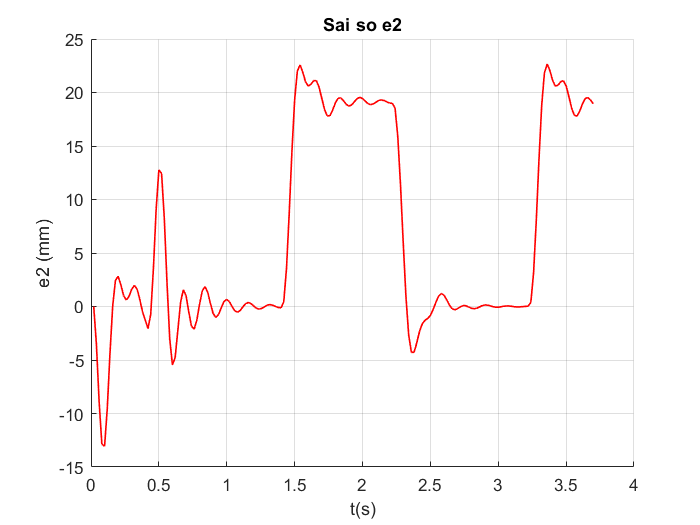
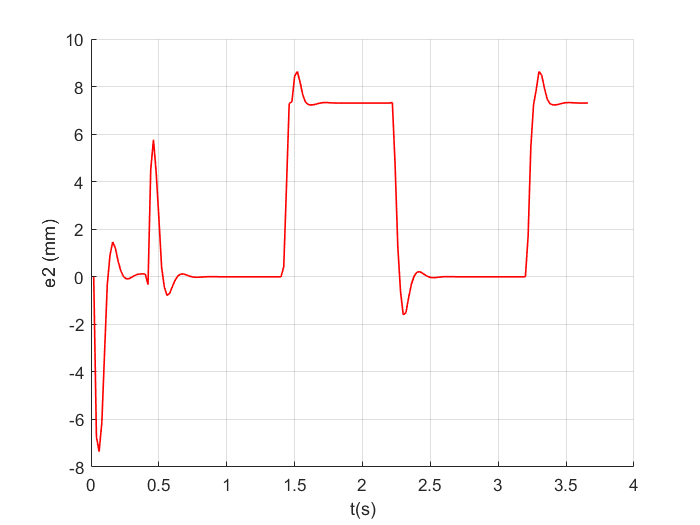
test commit

diff --git a/main.m b/main.m
@@ -14,16 +14,14 @@ function main(v_ref)
     r = 500;
 
     % Control
-    % --Lyapunov
+    % --Fuzzy
+    k1 = 0.01;
+    k2 = 0.0002;
+    k3 = 0.01;
+
     t_samp = 0.02;
     t_sensor = 0.0015;
     t_motor = t_samp - t_sensor;
-%     k1 = 0.01;
-%     k2 = 0.000015;
-%     k3 = 14;
-    k1 = 0.01;
-    k2 = 0.000008;
-    k3 = 20;
     omega_ref = v_ref/r;
     n_ref = omega_ref*60/(2*pi);
     v = 0;
@@ -62,6 +60,7 @@ function main(v_ref)
     e2_array = [];
     e2_gt_array = [];
     e3_array = [];
+    e3_gt_array = [];
     v_array = [];
     omega_array = [];
     v_left = [];
@@ -105,32 +104,34 @@ function main(v_ref)
         if is_exist == 0
             break
         end
-        [e1, e2, e2_gt, e3] = compute_error(x_control, y_control, phi, x_R, y_R, phi_R, sensor_interval, sensor_data);
-        disp([e2, e2_gt]);
+        if isempty(v_array) == 0
+            ds = v_array(end) * t_samp;
+            e2_prev = e2_array(end);
+        else
+            ds = 0;
+            e2_prev = 0;
+        end
+        [e1, e2, e2_gt, e3, e3_gt] = compute_error(x_control, y_control, phi, x_R, y_R, phi_R, sensor_interval, sensor_data, e2_prev, ds);
+        disp([e3, e3_gt]);
         [v, omega] = compute_lyapunov(e1, e2_gt, e3, v_ref, omega_ref, k1, k2, k3);
         [v_l_ref, v_r_ref] = vomega2lr(v, omega, wheel_distance);
         
-        % Apply PID
-        [sol_l, err2_l, int_l] = apply_PID(kp_l, ki_l, kd_l, err2_l, int_l, v_l_ref, v_l, t_motor, wheel_radius);
-        [sol_r, err2_r, int_r] = apply_PID(kp_r, ki_r, kd_r, err2_r, int_r, v_r_ref, v_r, t_motor, wheel_radius);
+        v_l = v_l_ref;
+        v_r = v_r_ref;
+        [v, omega] = lr2vomega(v_l, v_r, wheel_distance);
 
+        % Compute
         x_c_prev = x_c;
         y_c_prev = y_c;
-        for i = 1:length(t_seq)
-            v_l = rpm2v(deval(sol_l, t_seq(i)), wheel_radius);
-            v_r = rpm2v(deval(sol_r, t_seq(i)), wheel_radius);
-            [v, omega] = lr2vomega(v_l, v_r, wheel_distance);
-            
-            % Compute 
-            x_c = double(x_c + v*t_step*cos(phi));
-            y_c = double(y_c + v*t_step*sin(phi));
-            phi = double(phi + omega*t_step);
-        end
+        x_c = double(x_c + v*t_samp*cos(phi));
+        y_c = double(y_c + v*t_samp*sin(phi));
+        phi = double(phi + omega*t_samp);
         
         e1_array = [e1_array; double(e1)];
         e2_array = [e2_array; double(e2)];
         e2_gt_array = [e2_gt_array; double(e2_gt)];
         e3_array = [e3_array; double(e3)];
+        e3_gt_array = [e3_gt_array; double(e3_gt)];
         v_array = [v_array; v];
         omega_array = [omega_array; omega];
         v_left = [v_left; v2rpm(v_l, wheel_radius)];
@@ -156,35 +157,21 @@ function main(v_ref)
     figure
     hold on
     grid on
-    plot(x*t_samp, abs(e2_array - e2_gt_array), '-', 'LineWidth', 1, 'Color', 'k');
+    plot(x*t_samp, e2_array - e2_gt_array, '-', 'LineWidth', 1, 'Color', [0.1500 0.3250 0.0980]);
     xlabel('t(s)');
-    ylabel('e2 (mm)');
+    ylabel('e2 error (mm)');
+    
+    figure
+    hold on
+    grid on
+    plot(x*t_samp, e3_array - e3_gt_array, '-', 'LineWidth', 1, 'Color', [0.5500 0.5250 0.1980]);
+    xlabel('t(s)');
+    ylabel('e3 error (rad)');
     
     figure
     hold on
     grid on
     plot(x*t_samp, v_right, '-', 'LineWidth', 1, 'Color', [0.8500 0.3250 0.0980]);
-    plot(x*t_samp, v_right_ref, '-', 'LineWidth', 1, 'Color', [0.5 0.2250 0.4280]);
-    legend('Right', 'Right ref');
-    
-    figure
-    hold on
-    grid on
     plot(x*t_samp, v_left, '-', 'LineWidth', 1, 'Color', [0.4660 0.6740 0.1880]);
-    plot(x*t_samp, v_left_ref, '-', 'LineWidth', 1, 'Color', [0.6660 0.2740 0.5880]);
-    legend('Left', 'Left ref');
-    
-    figure
-    hold on
-    grid on
-    plot(x(1:length(t_seq))*t_samp, v_right(1:length(t_seq)), '-', 'LineWidth', 1, 'Color', [0.8500 0.3250 0.0980]);
-    plot(x(1:length(t_seq))*t_samp, v_right_ref(1:length(t_seq)), '-', 'LineWidth', 1, 'Color', [0.5 0.2250 0.4280]);
-    legend('Right', 'Right ref');
-    
-    figure
-    hold on
-    grid on
-    plot(x(1:length(t_seq))*t_samp, v_left(1:length(t_seq)), '-', 'LineWidth', 1, 'Color', [0.4660 0.6740 0.1880]);
-    plot(x(1:length(t_seq))*t_samp, v_left_ref(1:length(t_seq)), '-', 'LineWidth', 1, 'Color', [0.6660 0.2740 0.5880]);
-    legend('Left', 'Left ref');
+    legend('Right', 'Left');
 end

diff --git a/compute_error.m b/compute_error.m
@@ -1,4 +1,4 @@
-function [e1, e2, e2_gt, e3] = compute_error(x_control, y_control, phi, x_R, y_R, phi_R, s, sensor_data)
+function [e1, e2, e2_gt, e3, e3_gt] = compute_error(x_control, y_control, phi, x_R, y_R, phi_R, s, sensor_data, e2_prev, ds)
     % Compute e2 from sensors
     e2_gt = -(x_R - x_control)*sin(phi) + (y_R - y_control)*cos(phi);
     weights = [-3 -2 -1 0 1 2 3];
@@ -11,6 +11,16 @@ function [e1, e2, e2_gt, e3] = compute_error(x_control, y_control, phi, x_R, y_R
     end
     CR = calc_distances([x_control, y_control], [x_R, y_R]);
     e1 = (x_R - x_control)*cos(phi) + (y_R - y_control)*sin(phi);
-    e3 = phi_R - phi;
+    e3_gt = phi_R - phi;
+    if e3_gt > 6
+        e3_gt = e3_gt - 2*pi;
+    elseif e3_gt < -6
+        e3_gt = e3_gt + 2*pi;
+    end
+    if ds ~= 0
+        e3 = atan(e2-e2_prev)/ds;
+    else
+        e3 = 0;
+    end
 end
 
